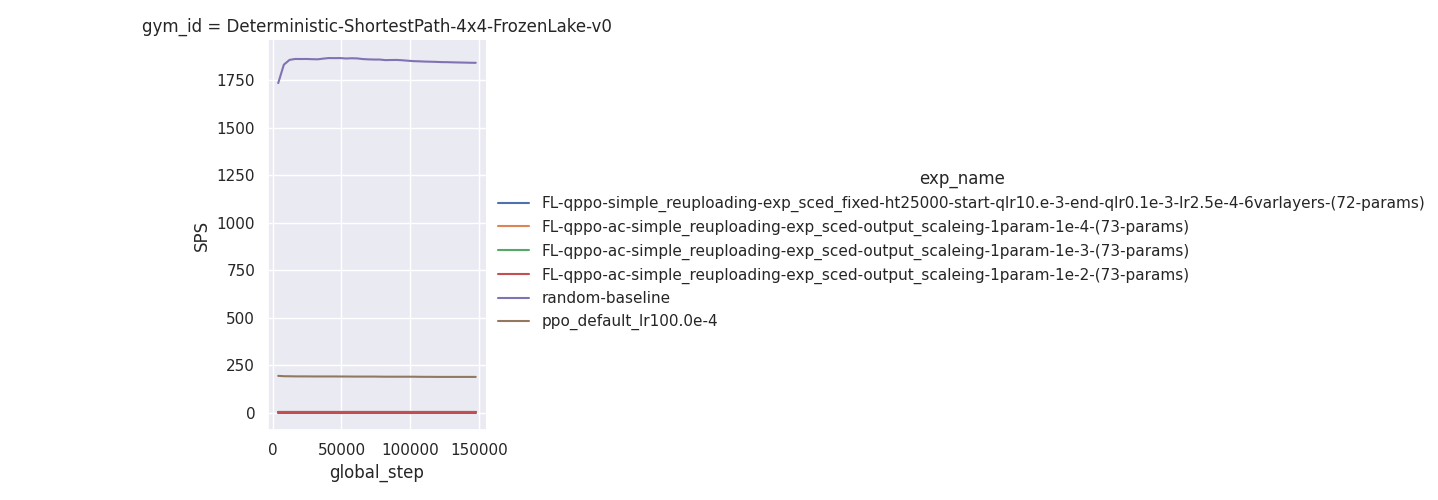
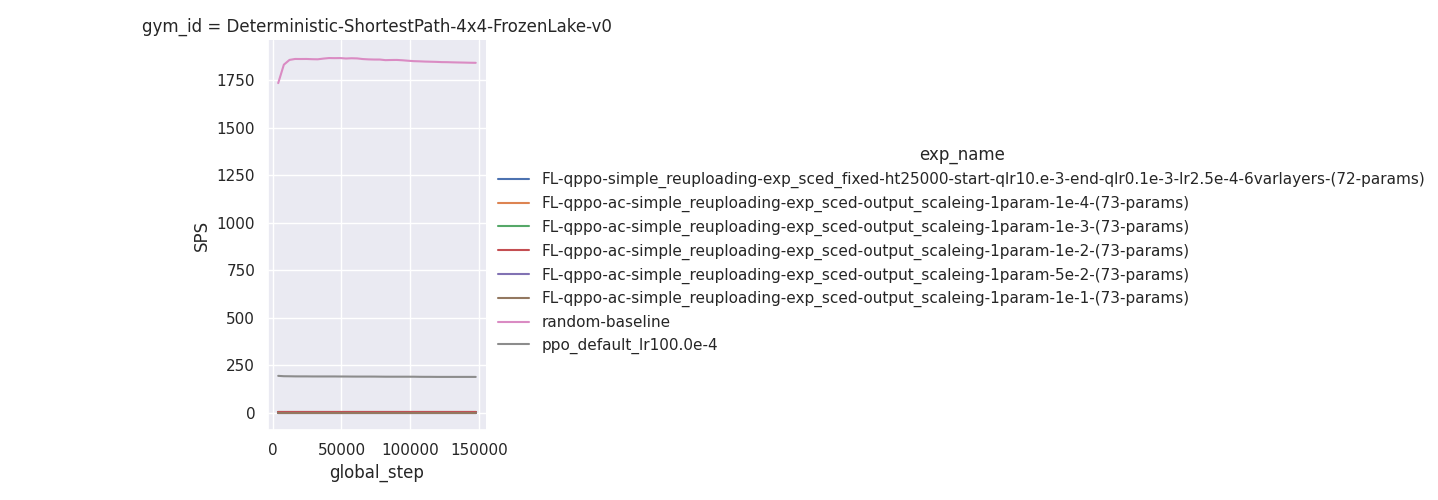
new tests

diff --git a/test_log.py b/test_log.py
@@ -811,6 +811,7 @@ exp_names = [
     "FL-qppo-ac-simple_reuploading-exp_sced-output_scaleing-4params-1e-3-(76-params)",
     "FL-qppo-ac-simple_reuploading-exp_sced-output_scaleing-4params-1e-2-(76-params)",
     "FL-qppo-ac-simple_reuploading-exp_sced-hybrid_output-20params-(92-params)",
+    "random-baseline",
     "ppo_default_lr100.0e-4",
 ]
 seeds = [10, 20, 30]
@@ -820,12 +821,51 @@ max_steps = 150000
 plot_test_avg(results_dir, plot_dir, gym_id, exp_names, seeds, stepsize, max_steps)
 """
 
+plot_dir = plots_dir + "/FL-actor-Test-1a-output-scaleing-1-param"
+gym_id = "Deterministic-ShortestPath-4x4-FrozenLake-v0"
+exp_names = [
+    "FL-qppo-simple_reuploading-exp_sced_fixed-ht25000-start-qlr10.e-3-end-qlr0.1e-3-lr2.5e-4-6varlayers-(72-params)",
+    "FL-qppo-ac-simple_reuploading-exp_sced-output_scaleing-1param-1e-4-(73-params)",
+    "FL-qppo-ac-simple_reuploading-exp_sced-output_scaleing-1param-1e-3-(73-params)",
+    "FL-qppo-ac-simple_reuploading-exp_sced-output_scaleing-1param-1e-2-(73-params)",
+    "FL-qppo-ac-simple_reuploading-exp_sced-output_scaleing-1param-5e-2-(73-params)",
+    "FL-qppo-ac-simple_reuploading-exp_sced-output_scaleing-1param-1e-1-(73-params)",
+    "random-baseline",
+    "ppo_default_lr100.0e-4",
+]
+seeds = [10, 20, 30]
+stepsize = 4 * 128 * 8
+max_steps = 150000
+
+plot_test_avg(results_dir, plot_dir, gym_id, exp_names, seeds, stepsize, max_steps)
+
+
+plot_dir = plots_dir + "/FL-actor-Test-1a-output-scaleing-4-params"
+gym_id = "Deterministic-ShortestPath-4x4-FrozenLake-v0"
+exp_names = [
+    "FL-qppo-simple_reuploading-exp_sced_fixed-ht25000-start-qlr10.e-3-end-qlr0.1e-3-lr2.5e-4-6varlayers-(72-params)",
+    "FL-qppo-ac-simple_reuploading-exp_sced-output_scaleing-4params-1e-4-(76-params)",
+    "FL-qppo-ac-simple_reuploading-exp_sced-output_scaleing-4params-1e-3-(76-params)",
+    "FL-qppo-ac-simple_reuploading-exp_sced-output_scaleing-4params-1e-2-(76-params)",
+    "FL-qppo-ac-simple_reuploading-exp_sced-output_scaleing-4params-5e-2-(76-params)",
+    "FL-qppo-ac-simple_reuploading-exp_sced-output_scaleing-4params-1e-1-(76-params)",
+    "random-baseline",
+    "ppo_default_lr100.0e-4",
+]
+seeds = [10, 20, 30]
+stepsize = 4 * 128 * 8
+max_steps = 150000
+
+plot_test_avg(results_dir, plot_dir, gym_id, exp_names, seeds, stepsize, max_steps)
+
+"""
 plot_dir = plots_dir + "/FL-actor-Test-1b-output-scaleing"
 gym_id = "Deterministic-ShortestPath-4x4-FrozenLake-v0"
 exp_names = [
     "FL-qppo-ac-simple_reuploading-exp_sced-output_scaleing-1param-1e-3-(73-params)",
     "FL-qppo-ac-simple_reuploading-qlr2.5e-3-output_scaleing-1param-1e-3-(73-params)",
     "FL-qppo-ac-simple_reuploading-qlr1.0e-3-output_scaleing-1param-1e-3-(73-params)",
+    "random-baseline",
     "ppo_default_lr100.0e-4",
 ]
 seeds = [10, 20, 30]
@@ -840,6 +880,7 @@ gym_id = "Deterministic-ShortestPath-4x4-FrozenLake-v0"
 exp_names = [
     "FL-qppo-ac-simple_reuploading-exp_sced-output_scaleing-1param-1e-3-(73-params)",
     "FL-qppo-ac-simple-exp_sced-output_scaleing-1param-1e-3-(73-params)",
+    "random-baseline",
     "ppo_default_lr100.0e-4",
 ]
 seeds = [10, 20, 30]
@@ -847,3 +888,6 @@ stepsize = 4 * 128 * 8
 max_steps = 150000
 
 plot_test_avg(results_dir, plot_dir, gym_id, exp_names, seeds, stepsize, max_steps)
+
+
+"""
